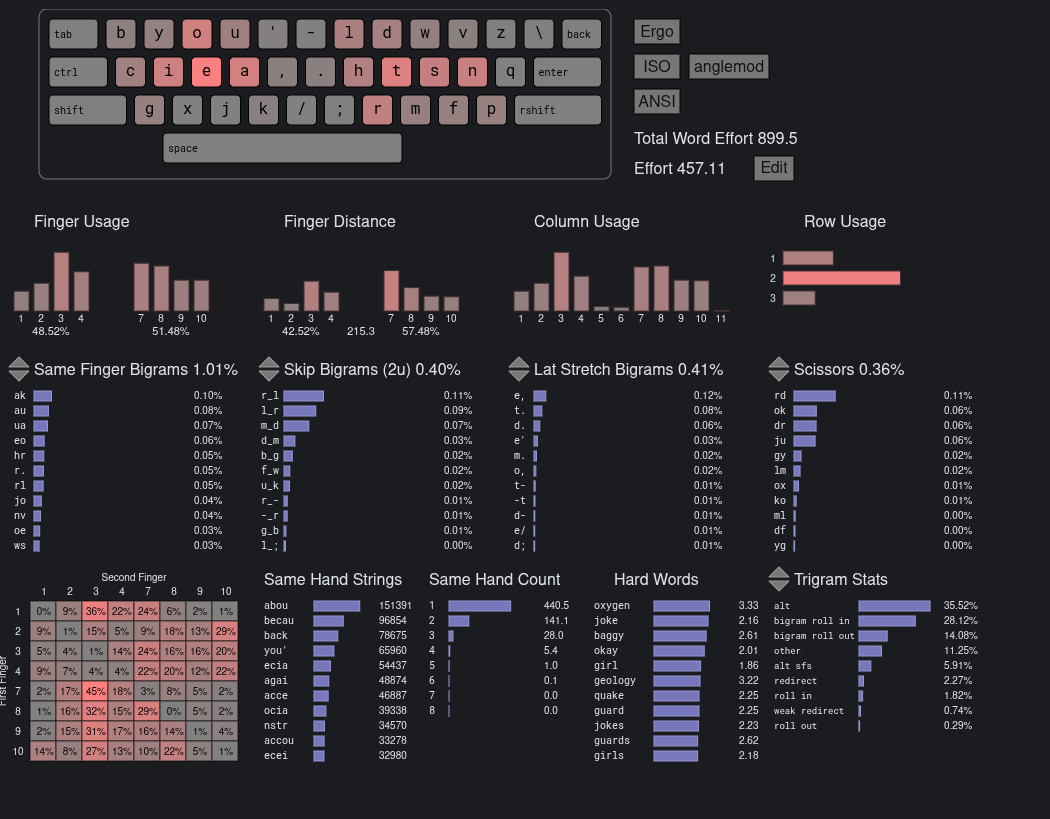
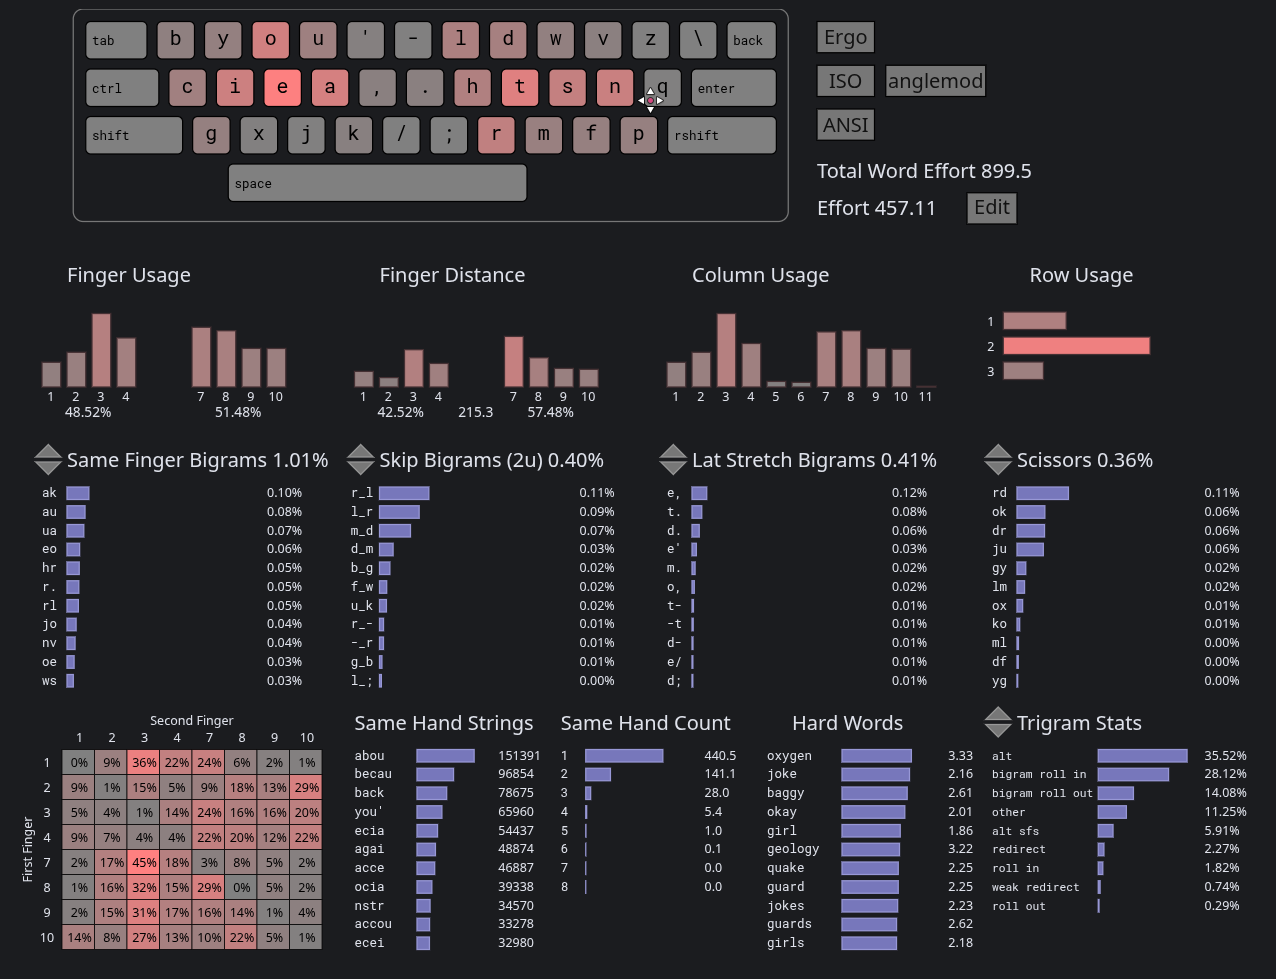
fix e-a swap

Changed region(s): [[0.0, 0.0, 0.9752, 0.9768]]

diff --git a/README2025.md b/README2025.md
@@ -20,3 +20,6 @@ jJ -> xX
 
 qQ -> zZ
 zZ -> qQ
+
+aA -> eE
+eE -> aA
